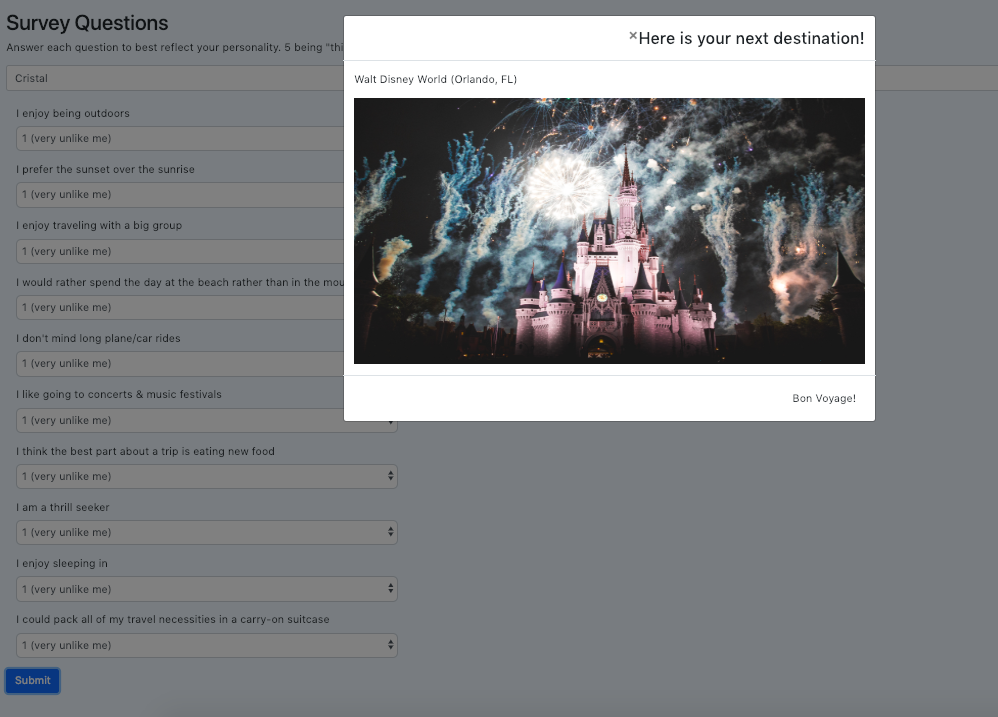
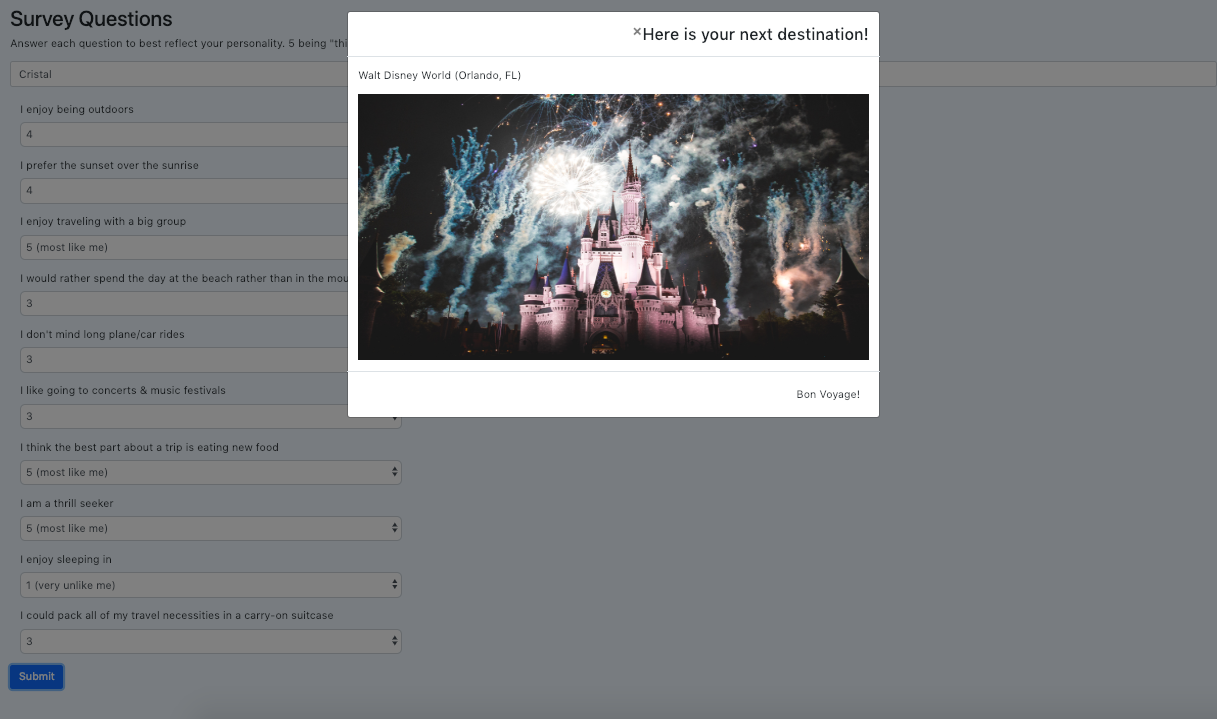
images

Changed region(s): [[0.0, 0.0, 0.9008, 0.6137], [0.0, 0.4603, 0.3417, 0.9819], [0.0311, 0.1534, 0.1864, 0.2762]]

diff --git a/README.md b/README.md
@@ -10,3 +10,18 @@ https://destinationdiscoverer.herokuapp.com/
 1. Path
 1. jQuery
 1. Bootstrap
+
+## How it Works
+
+First, you are presented with the home page, which is set to default if the appropriate parameters are not typed into the browser. It's a simple page with links to the Github repo, API page, and the button to begin the survey.
+![index]https://github.com/CristalGomez/ExpressJS/blob/master/assets/githubImgs/index.png
+
+Next, you are presented with the survey page. Notice that every dropdown is set to the value of 1. This prevents the user from leaving any answers blank. If the user happens to skip this question, the page reads their score as 1 (very unlike me) and will factor this score when matching them with a destination.
+![surveyPage]https://github.com/CristalGomez/ExpressJS/blob/master/assets/githubImgs/surveyHTML.png
+
+The survey page will not allow the user to proceed if they leave the name field blank. This is presented with an alert and not a modal. 
+![alert]https://github.com/CristalGomez/ExpressJS/blob/master/assets/githubImgs/surveyAlert.png
+
+Once the user has typed in their name and answered the survey questions, a modal will pop up with their next destination!
+![modal]https://github.com/CristalGomez/ExpressJS/blob/master/assets/githubImgs/surveyModal.png
+
